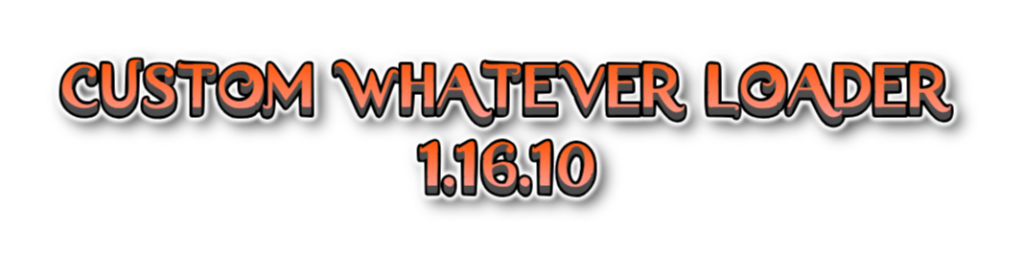
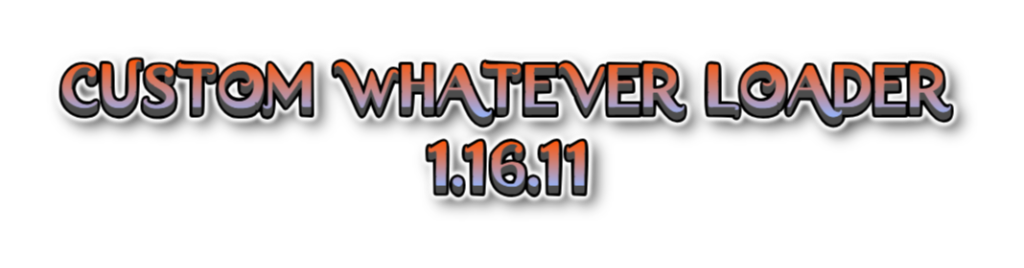
feat(CWL): bio parents alias

Changed region(s): [[0.0625, 0.2687, 0.9375, 0.4478], [0.4062, 0.5075, 0.625, 0.7761]]

diff --git a/CustomWhateverLoader/Loader/Patches/Charas/BioOverridePatch.cs b/CustomWhateverLoader/Loader/Patches/Charas/BioOverridePatch.cs
@@ -6,8 +6,10 @@ using Cwl.API;
 using Cwl.API.Custom;
 using Cwl.Helper;
 using Cwl.Helper.FileUtil;
+using Cwl.Helper.Unity;
 using Cwl.LangMod;
 using HarmonyLib;
+using SwallowExceptions.Fody;
 
 namespace Cwl.Patches.Charas;
 
@@ -61,16 +63,16 @@ internal class BioOverridePatch
             __instance.bio.idDad = langWord.NextUniqueKey();
             langWord[__instance.bio.idDad] = new() {
                 id = __instance.bio.idDad,
-                name_JP = bio.Dad_JP,
-                name = bio.Dad,
+                name_JP = bio.Dad_JP.Split("@")[0],
+                name = bio.Dad.Split("@")[0],
             };
 
             __instance.bio.idAdvMom = FallbackRowId;
             __instance.bio.idMom = langWord.NextUniqueKey();
             langWord[__instance.bio.idMom] = new() {
                 id = __instance.bio.idMom,
-                name_JP = bio.Mom_JP,
-                name = bio.Mom,
+                name_JP = bio.Mom_JP.Split("@")[0],
+                name = bio.Mom.Split("@")[0],
             };
 
             __instance.bio.idHome = langWord.NextUniqueKey();
@@ -112,6 +114,28 @@ internal class BioOverridePatch
                     new CodeInstruction(OpCodes.Ldarg_0),
                     Transpilers.EmitDelegate(GetNpcBackground))
                 .InstructionEnumeration();
+        }
+
+        [SwallowExceptions]
+        [HarmonyPostfix]
+        [HarmonyPatch(typeof(WindowChara), nameof(WindowChara.RefreshInfo))]
+        internal static void OnRefreshInfo(WindowChara __instance)
+        {
+            if (!_cached.TryGetValue(__instance.chara, out var bio)) {
+                return;
+            }
+
+            var mom = (Lang.isJP ? bio.Mom_JP : bio.Mom).Split("@");
+            var dad = (Lang.isJP ? bio.Dad_JP : bio.Dad).Split("@");
+
+            var info = __instance.transform.GetFirstNestedChildWithName("Content View/Profile/info");
+            if (mom.Length > 1) {
+                info?.GetFirstChildWithName("mom")?.GetComponent<UIText>()?.SetText(mom[1]);
+            }
+            
+            if (dad.Length > 1) {
+                info?.GetFirstChildWithName("dad")?.GetComponent<UIText>()?.SetText(dad[1]);
+            }
         }
 
         private static string GetNpcBackground(string fallback, Chara c)

diff --git a/CustomWhateverLoader/Loader/CustomWhateverLoader.cs b/CustomWhateverLoader/Loader/CustomWhateverLoader.cs
@@ -10,7 +10,7 @@ public static class ModInfo
     // for legacy reason
     public const string Guid = "dk.elinplugins.customdialogloader";
     public const string Name = "Custom Whatever Loader";
-    public const string Version = "1.16.10";
+    public const string Version = "1.16.11";
 }
 
 [BepInPlugin(ModInfo.Guid, ModInfo.Name, ModInfo.Version)]
